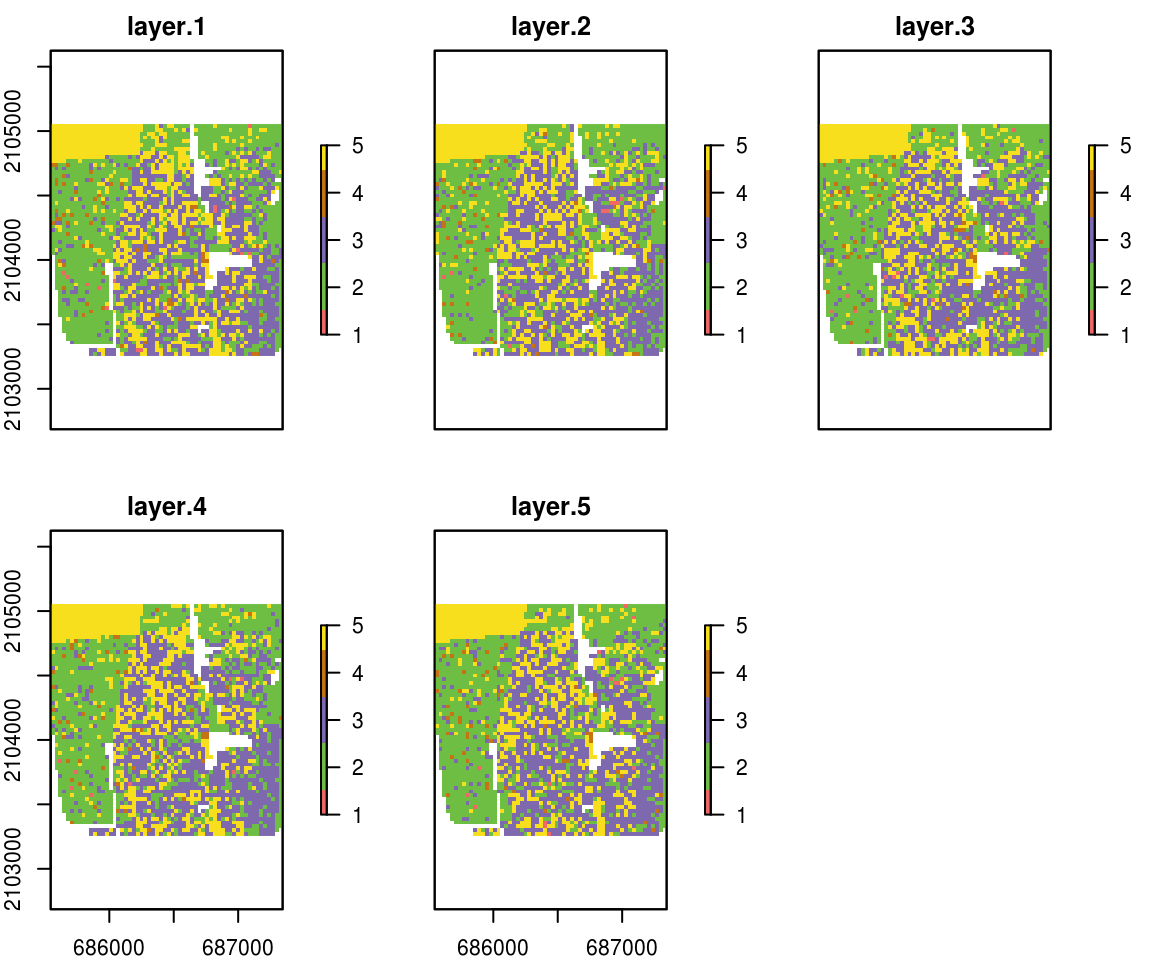
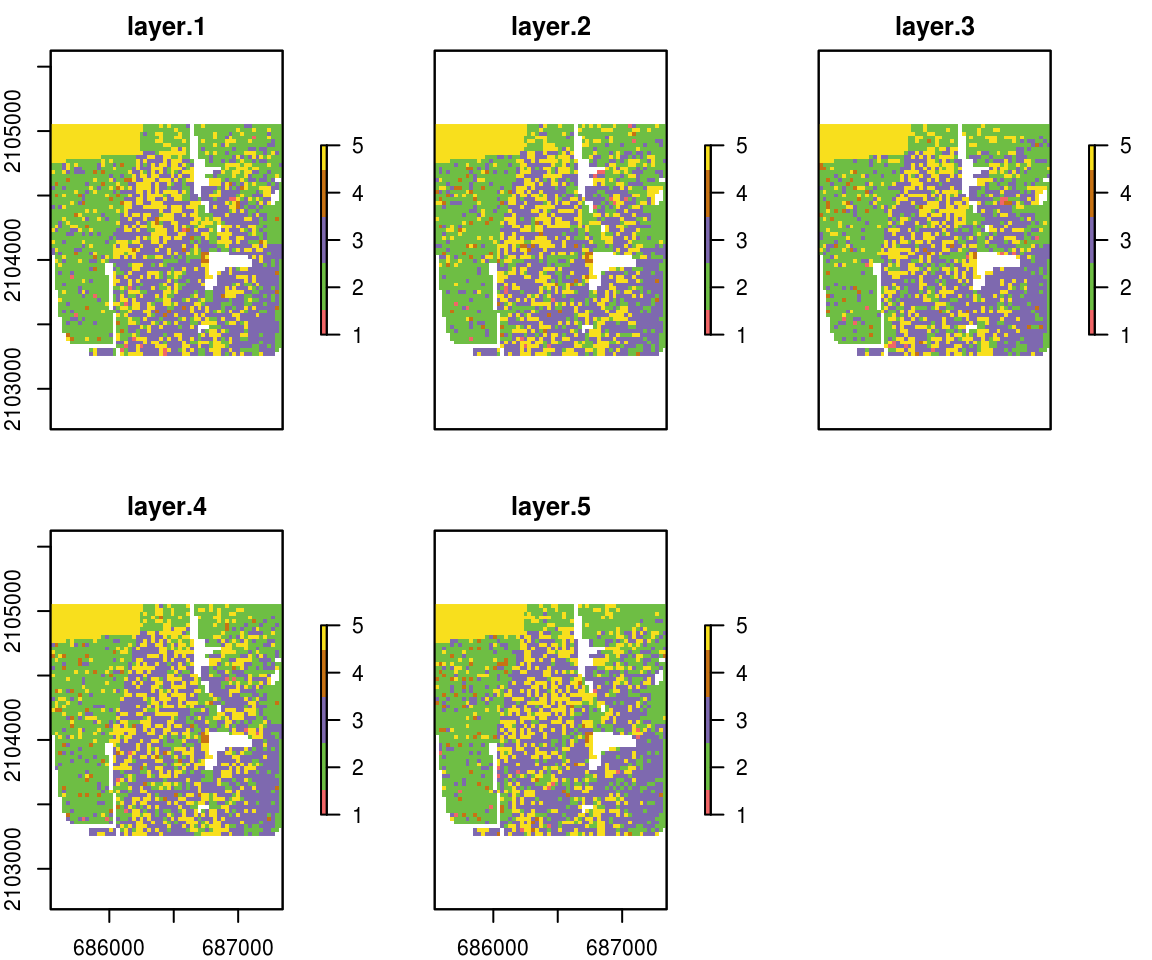
Built site for raceland: 1.0.3@d8f6048

diff --git a/articles/raceland-intro1.html b/articles/raceland-intro1.html
@@ -81,7 +81,7 @@
       <h1>raceland: R package for a pattern-based, zoneless method for analysis and visualization of racial topography</h1>
                         <h4 class="author">Anna Dmowska, Tomasz Stepinski, Jakub Nowosad</h4>
             
-            <h4 class="date">2019-11-12</h4>
+            <h4 class="date">2019-11-23</h4>
       
       
       <div class="hidden name"><code>raceland-intro1.Rmd</code></div>
@@ -177,8 +177,7 @@
 <a class="sourceLine" id="cb6-7" data-line-number="7"><span class="co">#&gt; epsg (SRID):    NA</span></a>
 <a class="sourceLine" id="cb6-8" data-line-number="8"><span class="co">#&gt; proj4string:    +proj=aea +lat_1=29.5 +lat_2=45.5 +lat_0=37.5 +lon_0=-96 +x_0=0 +y_0=0 +ellps=GRS80 +units=m +no_defs</span></a></code></pre></div>
 <div class="sourceCode" id="cb7"><pre class="sourceCode r"><code class="sourceCode r"><a class="sourceLine" id="cb7-1" data-line-number="1"><span class="kw"><a href="https://rdrr.io/r/base/names.html">names</a></span>(vect_data)</a>
-<a class="sourceLine" id="cb7-2" data-line-number="2"><span class="co">#&gt; [1] "GISJOIN"  "ASIAN"    "BLACK"    "HISPANIC" "OTHER"    "WHITE"   </span></a>
-<a class="sourceLine" id="cb7-3" data-line-number="3"><span class="co">#&gt; [7] "geom"</span></a></code></pre></div>
+<a class="sourceLine" id="cb7-2" data-line-number="2"><span class="co">#&gt; [1] "GISJOIN"  "ASIAN"    "BLACK"    "HISPANIC" "OTHER"    "WHITE"    "geom"</span></a></code></pre></div>
 <div class="sourceCode" id="cb8"><pre class="sourceCode r"><code class="sourceCode r"><a class="sourceLine" id="cb8-1" data-line-number="1">race_raster_from_vect =<span class="st"> </span><span class="kw"><a href="../reference/zones_to_raster.html">zones_to_raster</a></span>(<span class="dt">v =</span> vect_data,</a>
 <a class="sourceLine" id="cb8-2" data-line-number="2">                                        <span class="dt">resolution =</span> <span class="dv">30</span>, </a>
 <a class="sourceLine" id="cb8-3" data-line-number="3">                                        <span class="dt">variables =</span> <span class="kw"><a href="https://rdrr.io/r/base/c.html">c</a></span>(<span class="st">"ASIAN"</span>, <span class="st">"BLACK"</span>, <span class="st">"HISPANIC"</span>, <span class="st">"OTHER"</span>, <span class="st">"WHITE"</span>))</a></code></pre></div>
@@ -263,11 +262,11 @@
 <a class="sourceLine" id="cb13-4" data-line-number="4"><span class="kw"><a href="https://rdrr.io/r/base/colnames.html">rownames</a></span>(exposure_mat) =<span class="st"> </span><span class="kw"><a href="https://rdrr.io/r/base/c.html">c</a></span>(<span class="st">"ASIAN"</span>, <span class="st">"BLACK"</span>, <span class="st">"HISPANIC"</span>, <span class="st">"OTHER"</span>, <span class="st">"WHITE"</span>)</a>
 <a class="sourceLine" id="cb13-5" data-line-number="5"><span class="kw"><a href="https://rdrr.io/r/base/Round.html">round</a></span>(exposure_mat, <span class="dv">2</span>)</a>
 <a class="sourceLine" id="cb13-6" data-line-number="6"><span class="co">#&gt;          ASIAN   BLACK HISPANIC  OTHER   WHITE</span></a>
-<a class="sourceLine" id="cb13-7" data-line-number="7"><span class="co">#&gt; ASIAN    18.29   27.56    58.57   1.30   53.40</span></a>
-<a class="sourceLine" id="cb13-8" data-line-number="8"><span class="co">#&gt; BLACK    27.56 7471.72  3203.27 116.29 1892.63</span></a>
-<a class="sourceLine" id="cb13-9" data-line-number="9"><span class="co">#&gt; HISPANIC 58.57 3203.27  8939.56 208.48 3884.70</span></a>
-<a class="sourceLine" id="cb13-10" data-line-number="10"><span class="co">#&gt; OTHER     1.30  116.29   208.48  31.77   96.60</span></a>
-<a class="sourceLine" id="cb13-11" data-line-number="11"><span class="co">#&gt; WHITE    53.40 1892.63  3884.70  96.60 3163.97</span></a></code></pre></div>
+<a class="sourceLine" id="cb13-7" data-line-number="7"><span class="co">#&gt; ASIAN    13.79   35.89    48.41   2.07   65.11</span></a>
+<a class="sourceLine" id="cb13-8" data-line-number="8"><span class="co">#&gt; BLACK    35.89 7253.79  3064.26 141.74 1851.39</span></a>
+<a class="sourceLine" id="cb13-9" data-line-number="9"><span class="co">#&gt; HISPANIC 48.41 3064.26  9631.69 186.02 3865.31</span></a>
+<a class="sourceLine" id="cb13-10" data-line-number="10"><span class="co">#&gt; OTHER     2.07  141.74   186.02  15.30   63.72</span></a>
+<a class="sourceLine" id="cb13-11" data-line-number="11"><span class="co">#&gt; WHITE    65.11 1851.39  3865.31  63.72 3100.36</span></a></code></pre></div>
 </div>
 <div id="information-theory-metrics-it-metrics" class="section level3">
 <h3 class="hasAnchor">
@@ -293,28 +292,28 @@
 <a class="sourceLine" id="cb14-3" data-line-number="3">                            <span class="dt">size =</span> <span class="ot">NULL</span>, <span class="dt">threshold =</span> <span class="dv">1</span>)</a></code></pre></div>
 <div class="sourceCode" id="cb15"><pre class="sourceCode r"><code class="sourceCode r"><a class="sourceLine" id="cb15-1" data-line-number="1"><span class="kw"><a href="https://rdrr.io/r/utils/head.html">head</a></span>(metr_df)</a>
 <a class="sourceLine" id="cb15-2" data-line-number="2"><span class="co">#&gt;   realization row col      ent  joinent  condent    mutinf</span></a>
-<a class="sourceLine" id="cb15-3" data-line-number="3"><span class="co">#&gt; 1           1   1   1 1.651769 3.186871 1.535102 0.1166667</span></a>
-<a class="sourceLine" id="cb15-4" data-line-number="4"><span class="co">#&gt; 2           2   1   1 1.628481 3.140948 1.512467 0.1160137</span></a>
-<a class="sourceLine" id="cb15-5" data-line-number="5"><span class="co">#&gt; 3           3   1   1 1.641513 3.166632 1.525119 0.1163936</span></a>
-<a class="sourceLine" id="cb15-6" data-line-number="6"><span class="co">#&gt; 4           4   1   1 1.615769 3.118189 1.502420 0.1133496</span></a>
-<a class="sourceLine" id="cb15-7" data-line-number="7"><span class="co">#&gt; 5           5   1   1 1.632010 3.132966 1.500956 0.1310545</span></a>
-<a class="sourceLine" id="cb15-8" data-line-number="8"><span class="co">#&gt; 6           6   1   1 1.619091 3.130860 1.511769 0.1073220</span></a></code></pre></div>
+<a class="sourceLine" id="cb15-3" data-line-number="3"><span class="co">#&gt; 1           1   1   1 1.640086 3.156125 1.516039 0.1240474</span></a>
+<a class="sourceLine" id="cb15-4" data-line-number="4"><span class="co">#&gt; 2           2   1   1 1.639498 3.148688 1.509190 0.1303079</span></a>
+<a class="sourceLine" id="cb15-5" data-line-number="5"><span class="co">#&gt; 3           3   1   1 1.626771 3.132010 1.505238 0.1215334</span></a>
+<a class="sourceLine" id="cb15-6" data-line-number="6"><span class="co">#&gt; 4           4   1   1 1.633139 3.155409 1.522269 0.1108700</span></a>
+<a class="sourceLine" id="cb15-7" data-line-number="7"><span class="co">#&gt; 5           5   1   1 1.625370 3.136145 1.510775 0.1145956</span></a>
+<a class="sourceLine" id="cb15-8" data-line-number="8"><span class="co">#&gt; 6           6   1   1 1.631350 3.156607 1.525257 0.1060933</span></a></code></pre></div>
 <p>IT metrics are calculated for each realization separately, and in the next step, an average value from all realization is calculated.</p>
 <div class="sourceCode" id="cb16"><pre class="sourceCode r"><code class="sourceCode r"><a class="sourceLine" id="cb16-1" data-line-number="1"><span class="kw"><a href="https://rdrr.io/r/base/summary.html">summary</a></span>(metr_df[, <span class="kw"><a href="https://rdrr.io/r/base/c.html">c</a></span>(<span class="st">"ent"</span>, <span class="st">"mutinf"</span>)])</a>
 <a class="sourceLine" id="cb16-2" data-line-number="2"><span class="co">#&gt;       ent            mutinf       </span></a>
-<a class="sourceLine" id="cb16-3" data-line-number="3"><span class="co">#&gt;  Min.   :1.615   Min.   :0.08961  </span></a>
-<a class="sourceLine" id="cb16-4" data-line-number="4"><span class="co">#&gt;  1st Qu.:1.629   1st Qu.:0.10809  </span></a>
-<a class="sourceLine" id="cb16-5" data-line-number="5"><span class="co">#&gt;  Median :1.635   Median :0.11299  </span></a>
-<a class="sourceLine" id="cb16-6" data-line-number="6"><span class="co">#&gt;  Mean   :1.636   Mean   :0.11333  </span></a>
-<a class="sourceLine" id="cb16-7" data-line-number="7"><span class="co">#&gt;  3rd Qu.:1.643   3rd Qu.:0.11807  </span></a>
-<a class="sourceLine" id="cb16-8" data-line-number="8"><span class="co">#&gt;  Max.   :1.655   Max.   :0.13204</span></a></code></pre></div>
+<a class="sourceLine" id="cb16-3" data-line-number="3"><span class="co">#&gt;  Min.   :1.604   Min.   :0.09155  </span></a>
+<a class="sourceLine" id="cb16-4" data-line-number="4"><span class="co">#&gt;  1st Qu.:1.630   1st Qu.:0.10838  </span></a>
+<a class="sourceLine" id="cb16-5" data-line-number="5"><span class="co">#&gt;  Median :1.636   Median :0.11331  </span></a>
+<a class="sourceLine" id="cb16-6" data-line-number="6"><span class="co">#&gt;  Mean   :1.635   Mean   :0.11411  </span></a>
+<a class="sourceLine" id="cb16-7" data-line-number="7"><span class="co">#&gt;  3rd Qu.:1.641   3rd Qu.:0.12010  </span></a>
+<a class="sourceLine" id="cb16-8" data-line-number="8"><span class="co">#&gt;  Max.   :1.663   Max.   :0.13537</span></a></code></pre></div>
 <div class="sourceCode" id="cb17"><pre class="sourceCode r"><code class="sourceCode r"><a class="sourceLine" id="cb17-1" data-line-number="1">metr_df <span class="op">%&gt;%</span><span class="st"> </span></a>
 <a class="sourceLine" id="cb17-2" data-line-number="2"><span class="st">  </span><span class="kw">summarise</span>(<span class="dt">mean_ent =</span> <span class="kw"><a href="https://rdrr.io/r/base/mean.html">mean</a></span>(ent, <span class="dt">na.rm =</span> <span class="ot">TRUE</span>),</a>
 <a class="sourceLine" id="cb17-3" data-line-number="3">  <span class="dt">sd_ent =</span> <span class="kw"><a href="https://rdrr.io/r/stats/sd.html">sd</a></span>(ent, <span class="dt">na.rm =</span> <span class="ot">TRUE</span>),</a>
 <a class="sourceLine" id="cb17-4" data-line-number="4">  <span class="dt">mean_mutinf =</span> <span class="kw"><a href="https://rdrr.io/r/base/mean.html">mean</a></span>(mutinf),</a>
 <a class="sourceLine" id="cb17-5" data-line-number="5">  <span class="dt">sd_mutinf =</span> <span class="kw"><a href="https://rdrr.io/r/stats/sd.html">sd</a></span>(mutinf))</a>
 <a class="sourceLine" id="cb17-6" data-line-number="6"><span class="co">#&gt;   mean_ent      sd_ent mean_mutinf   sd_mutinf</span></a>
-<a class="sourceLine" id="cb17-7" data-line-number="7"><span class="co">#&gt; 1 1.635634 0.009474434    0.113332 0.007852879</span></a></code></pre></div>
+<a class="sourceLine" id="cb17-7" data-line-number="7"><span class="co">#&gt; 1 1.635115 0.009113279   0.1141127 0.008736132</span></a></code></pre></div>
 </div>
 </div>
 </div>

diff --git a/articles/raceland-intro2.html b/articles/raceland-intro2.html
@@ -81,7 +81,7 @@
       <h1>raceland: Describing local racial patterns of racial landscapes at different spatial scales</h1>
                         <h4 class="author">Anna Dmowska, Tomasz Stepinski, Jakub Nowosad</h4>
             
-            <h4 class="date">2019-11-12</h4>
+            <h4 class="date">2019-11-23</h4>
       
       
       <div class="hidden name"><code>raceland-intro2.Rmd</code></div>
@@ -158,16 +158,16 @@
 <a class="sourceLine" id="cb4-2" data-line-number="2">                               <span class="dt">neighbourhood =</span> <span class="dv">4</span>, <span class="dt">fun =</span> <span class="st">"mean"</span>, </a>
 <a class="sourceLine" id="cb4-3" data-line-number="3">                               <span class="dt">size =</span> <span class="dv">20</span>, <span class="dt">threshold =</span> <span class="fl">0.5</span>)</a>
 <a class="sourceLine" id="cb4-4" data-line-number="4">metr_df_<span class="dv">20</span>[metr_df_<span class="dv">20</span><span class="op">$</span>realization <span class="op">==</span><span class="st"> </span><span class="dv">1</span>, ]</a>
-<a class="sourceLine" id="cb4-5" data-line-number="5"><span class="co">#&gt;   realization row col      ent  joinent  condent     mutinf</span></a>
-<a class="sourceLine" id="cb4-6" data-line-number="6"><span class="co">#&gt; 1           1   1   1 1.262169 2.505225 1.243056 0.01911296</span></a>
-<a class="sourceLine" id="cb4-7" data-line-number="7"><span class="co">#&gt; 2           1   1   2 1.588810 3.015875 1.427064 0.16174611</span></a>
-<a class="sourceLine" id="cb4-8" data-line-number="8"><span class="co">#&gt; 3           1   1   3 1.457346 2.886259 1.428913 0.02843338</span></a>
-<a class="sourceLine" id="cb4-9" data-line-number="9"><span class="co">#&gt; 4           1   2   1 1.629124 3.130797 1.501673 0.12745020</span></a>
-<a class="sourceLine" id="cb4-10" data-line-number="10"><span class="co">#&gt; 5           1   2   2 1.539461 3.044611 1.505149 0.03431224</span></a>
-<a class="sourceLine" id="cb4-11" data-line-number="11"><span class="co">#&gt; 6           1   2   3 1.479053 2.787945 1.308892 0.17016062</span></a>
-<a class="sourceLine" id="cb4-12" data-line-number="12"><span class="co">#&gt; 7           1   3   1 1.401275 2.687805 1.286530 0.11474552</span></a>
-<a class="sourceLine" id="cb4-13" data-line-number="13"><span class="co">#&gt; 8           1   3   2 1.498283 2.984711 1.486428 0.01185547</span></a>
-<a class="sourceLine" id="cb4-14" data-line-number="14"><span class="co">#&gt; 9           1   3   3 1.432855 2.826726 1.393871 0.03898376</span></a></code></pre></div>
+<a class="sourceLine" id="cb4-5" data-line-number="5"><span class="co">#&gt;   realization row col      ent  joinent  condent      mutinf</span></a>
+<a class="sourceLine" id="cb4-6" data-line-number="6"><span class="co">#&gt; 1           1   1   1 1.300703 2.583473 1.282770 0.017933278</span></a>
+<a class="sourceLine" id="cb4-7" data-line-number="7"><span class="co">#&gt; 2           1   1   2 1.589500 3.045635 1.456135 0.133364175</span></a>
+<a class="sourceLine" id="cb4-8" data-line-number="8"><span class="co">#&gt; 3           1   1   3 1.439489 2.841164 1.401675 0.037813477</span></a>
+<a class="sourceLine" id="cb4-9" data-line-number="9"><span class="co">#&gt; 4           1   2   1 1.595922 3.049740 1.453818 0.142103210</span></a>
+<a class="sourceLine" id="cb4-10" data-line-number="10"><span class="co">#&gt; 5           1   2   2 1.493890 2.954136 1.460246 0.033643969</span></a>
+<a class="sourceLine" id="cb4-11" data-line-number="11"><span class="co">#&gt; 6           1   2   3 1.465915 2.810793 1.344878 0.121037225</span></a>
+<a class="sourceLine" id="cb4-12" data-line-number="12"><span class="co">#&gt; 7           1   3   1 1.403368 2.681353 1.277985 0.125383195</span></a>
+<a class="sourceLine" id="cb4-13" data-line-number="13"><span class="co">#&gt; 8           1   3   2 1.538805 3.069287 1.530483 0.008321768</span></a>
+<a class="sourceLine" id="cb4-14" data-line-number="14"><span class="co">#&gt; 9           1   3   3 1.394629 2.745056 1.350427 0.044202598</span></a></code></pre></div>
 <p>Racial topography at the analyzed scale is quantified as an ensemble average from multiple realizations. First, for each square window is calculated the average value of entropy and mutual information based on 100 realizations. The table below shows the mean (<code>ent_mean</code>, <code>mutinf_mean</code>) and standard deviation (<code>ent_sd</code>, <code>mutinf_sd</code>) values for each square window.</p>
 <div class="sourceCode" id="cb5"><pre class="sourceCode r"><code class="sourceCode r"><a class="sourceLine" id="cb5-1" data-line-number="1">smr =<span class="st"> </span>metr_df_<span class="dv">20</span> <span class="op">%&gt;%</span></a>
 <a class="sourceLine" id="cb5-2" data-line-number="2"><span class="st">  </span><span class="kw">group_by</span>(row, col) <span class="op">%&gt;%</span></a>
@@ -182,15 +182,15 @@
 <a class="sourceLine" id="cb5-11" data-line-number="11"><span class="co">#&gt; # Groups:   row [3]</span></a>
 <a class="sourceLine" id="cb5-12" data-line-number="12"><span class="co">#&gt;     row   col ent_mean ent_sd mutinf_mean mutinf_sd</span></a>
 <a class="sourceLine" id="cb5-13" data-line-number="13"><span class="co">#&gt;   &lt;dbl&gt; &lt;dbl&gt;    &lt;dbl&gt;  &lt;dbl&gt;       &lt;dbl&gt;     &lt;dbl&gt;</span></a>
-<a class="sourceLine" id="cb5-14" data-line-number="14"><span class="co">#&gt; 1     1     1     1.26 0.0476      0.0192   0.00871</span></a>
-<a class="sourceLine" id="cb5-15" data-line-number="15"><span class="co">#&gt; 2     1     2     1.59 0.0120      0.162    0.0296 </span></a>
-<a class="sourceLine" id="cb5-16" data-line-number="16"><span class="co">#&gt; 3     1     3     1.41 0.0290      0.0459   0.0143 </span></a>
-<a class="sourceLine" id="cb5-17" data-line-number="17"><span class="co">#&gt; 4     2     1     1.61 0.0257      0.150    0.0372 </span></a>
-<a class="sourceLine" id="cb5-18" data-line-number="18"><span class="co">#&gt; 5     2     2     1.52 0.0218      0.0368   0.0121 </span></a>
-<a class="sourceLine" id="cb5-19" data-line-number="19"><span class="co">#&gt; 6     2     3     1.51 0.0268      0.155    0.0297 </span></a>
-<a class="sourceLine" id="cb5-20" data-line-number="20"><span class="co">#&gt; 7     3     1     1.37 0.0482      0.138    0.0436 </span></a>
-<a class="sourceLine" id="cb5-21" data-line-number="21"><span class="co">#&gt; 8     3     2     1.54 0.0296      0.0162   0.00753</span></a>
-<a class="sourceLine" id="cb5-22" data-line-number="22"><span class="co">#&gt; 9     3     3     1.42 0.0265      0.0487   0.0145</span></a></code></pre></div>
+<a class="sourceLine" id="cb5-14" data-line-number="14"><span class="co">#&gt; 1     1     1     1.26 0.0398      0.0189   0.00889</span></a>
+<a class="sourceLine" id="cb5-15" data-line-number="15"><span class="co">#&gt; 2     1     2     1.59 0.0120      0.161    0.0264 </span></a>
+<a class="sourceLine" id="cb5-16" data-line-number="16"><span class="co">#&gt; 3     1     3     1.41 0.0276      0.0454   0.0132 </span></a>
+<a class="sourceLine" id="cb5-17" data-line-number="17"><span class="co">#&gt; 4     2     1     1.61 0.0247      0.151    0.0394 </span></a>
+<a class="sourceLine" id="cb5-18" data-line-number="18"><span class="co">#&gt; 5     2     2     1.51 0.0222      0.0372   0.0134 </span></a>
+<a class="sourceLine" id="cb5-19" data-line-number="19"><span class="co">#&gt; 6     2     3     1.51 0.0265      0.161    0.0293 </span></a>
+<a class="sourceLine" id="cb5-20" data-line-number="20"><span class="co">#&gt; 7     3     1     1.38 0.0471      0.142    0.0417 </span></a>
+<a class="sourceLine" id="cb5-21" data-line-number="21"><span class="co">#&gt; 8     3     2     1.54 0.0279      0.0155   0.00653</span></a>
+<a class="sourceLine" id="cb5-22" data-line-number="22"><span class="co">#&gt; 9     3     3     1.42 0.0321      0.0466   0.0144</span></a></code></pre></div>
 <p>Then the averages from the mean values of entropy and mutual information are calculated.</p>
 <div class="sourceCode" id="cb6"><pre class="sourceCode r"><code class="sourceCode r"><a class="sourceLine" id="cb6-1" data-line-number="1">smr <span class="op">%&gt;%</span><span class="st"> </span></a>
 <a class="sourceLine" id="cb6-2" data-line-number="2"><span class="st">  </span><span class="kw">ungroup</span>() <span class="op">%&gt;%</span><span class="st"> </span></a>
@@ -199,7 +199,7 @@
 <a class="sourceLine" id="cb6-5" data-line-number="5"><span class="co">#&gt; # A tibble: 1 x 4</span></a>
 <a class="sourceLine" id="cb6-6" data-line-number="6"><span class="co">#&gt;   ent_mean ent_sd mutinf_mean mutinf_sd</span></a>
 <a class="sourceLine" id="cb6-7" data-line-number="7"><span class="co">#&gt;      &lt;dbl&gt;  &lt;dbl&gt;       &lt;dbl&gt;     &lt;dbl&gt;</span></a>
-<a class="sourceLine" id="cb6-8" data-line-number="8"><span class="co">#&gt; 1     1.47 0.0297      0.0858    0.0219</span></a></code></pre></div>
+<a class="sourceLine" id="cb6-8" data-line-number="8"><span class="co">#&gt; 1     1.47 0.0289      0.0865    0.0215</span></a></code></pre></div>
 <div id="racial-diversity-segregation-classification" class="section level3">
 <h3 class="hasAnchor">
 <a href="#racial-diversity-segregation-classification" class="anchor"></a>Racial diversity-segregation classification</h3>
@@ -294,7 +294,7 @@
 <a class="sourceLine" id="cb14-19" data-line-number="19"><span class="co">#&gt; # A tibble: 1 x 4</span></a>
 <a class="sourceLine" id="cb14-20" data-line-number="20"><span class="co">#&gt;   ent_mean ent_sd mutinf_mean mutinf_sd</span></a>
 <a class="sourceLine" id="cb14-21" data-line-number="21"><span class="co">#&gt;      &lt;dbl&gt;  &lt;dbl&gt;       &lt;dbl&gt;     &lt;dbl&gt;</span></a>
-<a class="sourceLine" id="cb14-22" data-line-number="22"><span class="co">#&gt; 1     1.47 0.0329      0.0824    0.0232</span></a>
+<a class="sourceLine" id="cb14-22" data-line-number="22"><span class="co">#&gt; 1     1.48 0.0322      0.0822    0.0219</span></a>
 <a class="sourceLine" id="cb14-23" data-line-number="23"></a>
 <a class="sourceLine" id="cb14-24" data-line-number="24"><span class="co"># calculate bivariate classification</span></a>
 <a class="sourceLine" id="cb14-25" data-line-number="25">smr10<span class="op">$</span>bivar_cls =<span class="st"> </span><span class="kw">bivariate_classification</span>(</a>

diff --git a/reference/calculate_metrics.html b/reference/calculate_metrics.html
@@ -129,9 +129,18 @@ Entropy is associated with measuring racial diversity and mutual information is 
     
     </div>
 
-    <pre class="usage"><span class='fu'>calculate_metrics</span>(<span class='no'>x</span>, <span class='no'>w</span>, <span class='no'>neighbourhood</span>, <span class='no'>fun</span>, <span class='kw'>size</span> <span class='kw'>=</span> <span class='kw'>NULL</span>, <span class='kw'>shift</span> <span class='kw'>=</span> <span class='kw'>NULL</span>,
-  <span class='kw'>na_action</span> <span class='kw'>=</span> <span class='st'>"replace"</span>, <span class='kw'>base</span> <span class='kw'>=</span> <span class='st'>"log2"</span>, <span class='kw'>ordered</span> <span class='kw'>=</span> <span class='fl'>TRUE</span>,
-  <span class='kw'>threshold</span> <span class='kw'>=</span> <span class='fl'>0.5</span>)</pre>
+    <pre class="usage"><span class='fu'>calculate_metrics</span>(
+  <span class='no'>x</span>,
+  <span class='no'>w</span>,
+  <span class='no'>neighbourhood</span>,
+  <span class='no'>fun</span>,
+  <span class='kw'>size</span> <span class='kw'>=</span> <span class='kw'>NULL</span>,
+  <span class='kw'>shift</span> <span class='kw'>=</span> <span class='kw'>NULL</span>,
+  <span class='kw'>na_action</span> <span class='kw'>=</span> <span class='st'>"replace"</span>,
+  <span class='kw'>base</span> <span class='kw'>=</span> <span class='st'>"log2"</span>,
+  <span class='kw'>ordered</span> <span class='kw'>=</span> <span class='fl'>TRUE</span>,
+  <span class='kw'>threshold</span> <span class='kw'>=</span> <span class='fl'>0.5</span>
+)</pre>
     
     <h2 class="hasAnchor" id="arguments"><a class="anchor" href="#arguments"></a>Arguments</h2>
     <table class="ref-arguments">

diff --git a/reference/raceland-package.html b/reference/raceland-package.html
@@ -153,7 +153,7 @@
           </ul>
 
     <h2>Author</h2>
-    <p><strong>Maintainer</strong>: Jakub Nowosad <a href='mailto:nowosad.jakub@gmail.com'>nowosad.jakub@gmail.com</a> (0000-0002-1057-3721)</p>
+    <p><strong>Maintainer</strong>: Jakub Nowosad <a href='mailto:nowosad.jakub@gmail.com'>nowosad.jakub@gmail.com</a> (<a href='https://orcid.org/0000-0002-1057-3721'>ORCID</a>)</p>
 <p>Authors:</p><ul>
 <li><p>Anna Dmowska</p></li>
 <li><p>Tomasz Stepinski</p></li>

diff --git a/articles/raceland-intro3.html b/articles/raceland-intro3.html
@@ -81,7 +81,7 @@
       <h1>raceland: Describing local pattern of racial landscape using SocScape grids</h1>
                         <h4 class="author">Anna Dmowska, Tomasz Stepinski, Jakub Nowosad</h4>
             
-            <h4 class="date">2019-11-12</h4>
+            <h4 class="date">2019-11-23</h4>
       
       
       <div class="hidden name"><code>raceland-intro3.Rmd</code></div>
